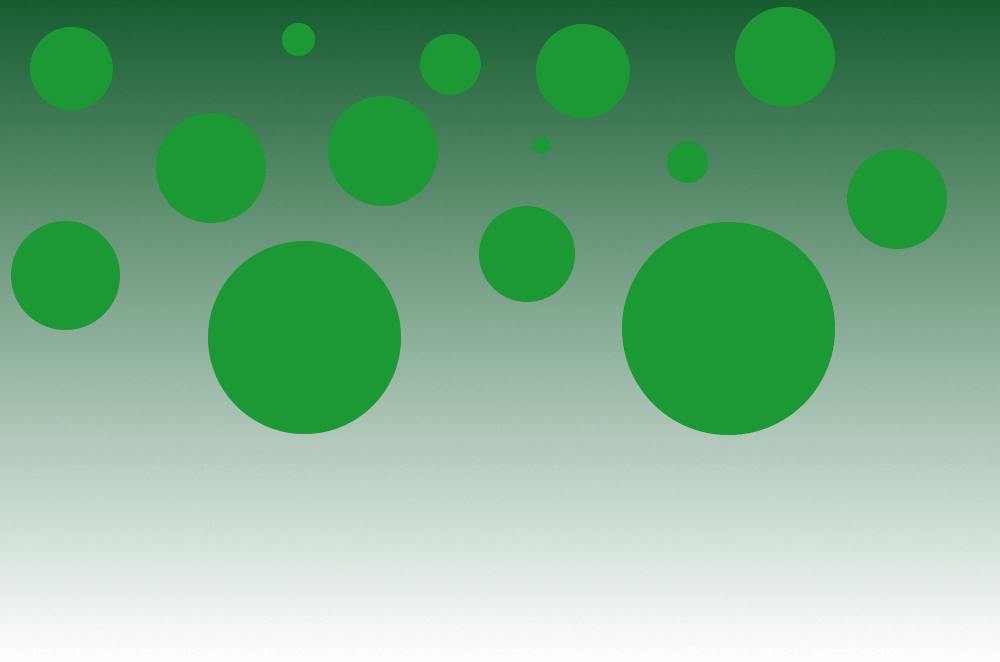
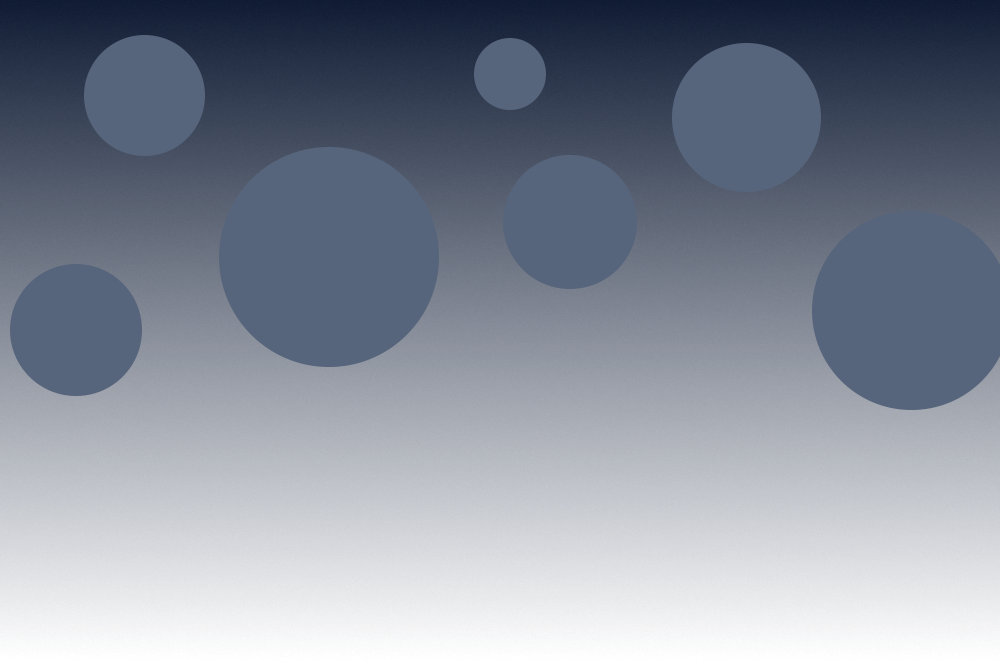
Introducing a blue asthetic.
Also, expansion on the gaming section.
Gonna continue tomorrow with Mario and my critiquing skills.

diff --git a/index.html b/index.html
@@ -65,7 +65,7 @@
 			</div>
 			<ul class="list-unstyled components mb-0">
 				<li class="active"><a href="/"><span class="fa fa-home mr-1"></span> Home</a></li>
-				<li><a href="/projects"><span class="fa fa-folder-open-o mr-1 notif"><small class="d-flex align-items-center justify-content-center">2</small></span> Projects</a></li>
+				<li><a href="/projects"><span class="fa fa-folder-open-o mr-1 notif"><small class="badge badge-pill badge-danger d-flex justify-content-center">2</small></span> Projects</a></li>
 				<li><a href="/blog"><span class="fa fa-pencil-square-o mr-1"></span> Blog</a></li>
 				<li><a href="/gamerev"><span class="fa fa-gamepad mr-1"></span> Game Reviews</a></li>
 				<li><a href="/social"><span class="fa fa-share-alt mr-1"></span> Social Links</a></li>
@@ -76,14 +76,15 @@
 		<!-- Page Content  -->
 		<div id="content" class="px-5 pt-4">
 			<h1 class="mb-1">Welcome to the NightScript Domain!</h1>
-			<p>This website was made to record various accomplishments I've done over the years. The content you may find here could range from video game reviews, blogs, projects or other things I may throw onto here. Maybe you'll find something interesting here?</p>
+			<p>This website was made to record various accomplishments I've done over the years. The content you may find here could range from video game reviews, blogs, projects or other things I may throw onto here. Maybe you'll find something interesting here? Who knows, but hey; at least appreciate the nice beautiful background of a mountain.</p>
 			<p>As for who I am; well, I'm kind of a laid-back yet lazy 16 year old programmer that is extremely enthusiastic in open source code and external contributions. I mainly program for the homebrew community, specifically the Nintendo DS Homebrew community. I can code in PHP, JavaScript, Python and some C++.<br>
 			Programming isn't the only thing I do (but it's my specialty). I also find interest in graphic design (using Photoshop CS6), writting, gaming and moderating. I am a moderator for Mario Making Mods (a discord server on modding the Super Mario Maker series) and the DS(i) Mode Hacking Discord Server. It's rare that you'll see me moderate though, because most of the userbase are rule-abidant users.</p>
 			<p>I do most of my communications on Discord (primarily on my personal Discord Server) but I'm also reachable elsewhere. Just take a look at my social page to know where to find me. I also take PayPal donations, if that's sort of your thing.</p>
 			<h3 class="mb-1">Gaming</h3>
-			<p>I game mainly on PC; It is the most versitile option in my opinion. However, I have a Nintendo 3DS XL, a Nintendo DS Lite with a broken SLOT-1 loader (so I never use it except for multiplayer DS Download Play games such as Mario Kart DS) and a Nintendo Wii which I never use but my step-brothers seem to adore. I <i>had</i> a Nintendo Switch but unfortunately, I do not have it anymore. As you have probably infered from what I wrote, I'm a Nintendo fan but I'm not exclusively Nintendo. Generally, I like series that are the more traditional type of games. I don't like the hallway style of modern 3D games or the "shoot everything" in the shooter games. I am, however, a fan of learning the games inside out to take advantage of any pro-level mechanic. It's like wavedashing in melee (despite me unable to do so in Project Plus), or momentum in the old Sonic games. Oh yeah, those series...</p>
-			<p>...are my favorite video game series of all time. In the old Sonic games, you are rewarded for memorization with speed. The goal is to get the fastest times in an act, and that concept is the only type of replayability I ever need. There is no need to hunt down collectable by searching every pipe or randomly crouching through hidden walls. For example, despite being hated for its constant return in modern Sonic games, Green Hill Zone is the best level to showcase that design philosophy what sonic is all about.<br>
-			As for Smash Bros, my favorite in the series is a Brawl mod called Project Plus. It replicates all of melee's mechanics, adds Knuckles, splits the pokemon trainer pokemon into three different slots, brings back melee characters and has 3 alternative versions for every stage. The character I play differentiates between each game. For example, I'm a K Rool, Meta Knight & Mario main in Smash Ultimate while simultaneously being a Wario, Mario & Ness main in Project Plus. What I love about Smash Bros is how it takes all these iconic characters (and the characters from the Fire Emblem series) and puts them against eachother in a Nintendo-esque way. Rather than having health bars and bordered walls, it takes a much more casual approach. Even though I think they took that approach too far in Brawl (hence why I don't play it), it's a much more inviting game than making your own characters.</p>
+			<p>I game mainly on PC; It is the most versitile option in my opinion. However, I have a Nintendo 3DS XL, a Nintendo DS Lite with a broken SLOT-1 loader (so I never use it except for multiplayer DS Download Play games such as Mario Kart DS) and a Nintendo Wii which I never use but my step-brothers seem to adore. I <i>had</i> a Nintendo Switch but unfortunately, I do not have it anymore. As you have probably infered from what I wrote, I'm a Nintendo fan but I'm not exclusively Nintendo. Generally, I like series that are the more traditional type of games. I don't like the hallway style of modern 3D games or the "shoot everything" design in the shooter games. I am, however, a fan of learning the games inside out to take advantage of any pro-level mechanic. It's like wavedashing in melee (despite me unable to do so in Project Plus), or momentum in the old Sonic games. Oh yeah, those series...</p>
+			<p>...are my favorite video game series of all time. My favorite entry in the Super Smash Bros. series is a Brawl mod called Project Plus. It replicates all of melee's mechanics, adds Knuckles, splits the pokemon trainer pokemon into three different slots, brings back melee characters and has 3 alternative versions for every stage. The character I play differentiates between each game. For example, I'm a K Rool, Meta Knight & Mario main in Smash Ultimate while simultaneously being a Wario, Mario & Ness main in Project Plus. What I love about Smash Bros is how it takes all these iconic characters (and the characters from the Fire Emblem series) and puts them against eachother in a Nintendo-esque way. Rather than having health bars and bordered walls, it takes a much more casual approach. Even though I think they took that approach too far in Brawl (hence why I don't play it), it's a much more inviting game than making your own characters.<br>
+				In the Classic 2D Sonic games, the more you memorize the level, the better you know the fastest way to go through an act. The goal is to get the fastest times in an act, and that concept is the only type of replayability I ever need. Green Hill Zone, despite being hated on for its constant return in Modern Sonic games, is a perfect example of this design philosophy. There is no need to hunt down collectable by searching every pipe or randomly crouching through hidden walls. Now, that might make me seem like I hate other 2D platformer series, but that couldn't be further from the truth.</p>
+			<p>Kirby is a series intended for easier players with design philosophies such as infinite flight and the relatively slow gameplay. Here's an example of the slow gameplay kirby has to offer: Rather than curling up into a super fast blue ball or timing your jump to hit their heads, kirby defeats his enemies by coming to a complete stand-still and sucking them up. The games compliment this new-player philosophy with collectables, and it makes sense for a series this laid back. For example, The Great Cave Offensive sub-game in Kirby Super Star Ultra (and the original respectively) does everything to complement the Kirby nature despite its name and Smash Bros stage representation being anything but. While not a requirement, there are 60 collectables scattered throughout your journey to travel out of the cave. With Kirby, this type of system works phenomunously as it opens the gates to all players. If you're a new person just getting into video games, it's quite straight forward and easy to play through.</p>
 		</div>
 
 		<script src="https://unpkg.com/@popperjs/core@2.2.3/dist/umd/popper.min.js"></script>

diff --git a/css/style.css b/css/style.css
@@ -1,5 +1,9 @@
 body {
 	color: #00DDDD;
+	background-image: url('https://i.imgur.com/GdnbuVj.jpg');
+	background-size: cover;
+	background-repeat: no-repeat;
+	background-position: center center;
 	width: 100%; }
 
 a {
@@ -31,13 +35,17 @@ button {
 #sidebar {
 	min-width: 300px;
 	max-width: 300px;
-	background: #16171A;
+	background: #00000F;
 	color: #fff;
 	-webkit-transition: all 0.3s;
 	-o-transition: all 0.3s;
 	transition: all 0.3s;
 	position: relative;
-	min-height: 100vh; }
+	min-height: 100vh;
+
+	-moz-box-shadow:    3px 0 5px 0 #000;
+	-webkit-box-shadow: 3px 0 5px 0 #000;
+	box-shadow:         3px 0 5px 0 #000; }
 	#sidebar.active {
 		margin-left: -300px; }
 		#sidebar.active .custom-menu {
@@ -70,19 +78,16 @@ button {
 					right: -5px;
 					width: 12px;
 					height: 12px;
-					content: '';
-					background: red;
-					border-radius: 50%;
 					font-family: "Poppins", Arial, sans-serif;
 					font-size: 8px; }
 			#sidebar ul li a:hover {
 				color: #fff;
-				background: #1C9934; }
+				background: #56657C; }
 		#sidebar ul li.active > a {
 			background: transparent;
 			color: #fff; }
 			#sidebar ul li.active > a:hover {
-				background: #1C9934; }
+				background: #56657C; }
 	@media (max-width: 991.98px) {
 		#sidebar {
 			margin-left: -300px;
@@ -107,12 +112,14 @@ button {
 				-o-transition: none;
 				transition: none; } }
 		#sidebar .custom-menu .btn.btn-primary {
-			background: #1C9934;
+			background: #56657C;
 			border-color: transparent;
 			position: relative;
 			color: #000;
 			width: 30px;
 			height: 30px; }
+			#sidebar .custom-menu .btn.btn-primary:hover {
+				background: #67768D}
 			#sidebar .custom-menu .btn.btn-primary:after, #sidebar .custom-menu .btn.btn-primary:before {
 				position: absolute;
 				top: 2px;
@@ -149,7 +156,6 @@ button {
 	.bg-wrap .user-logo h4 {
 		color: #fff;
 		font-family: 'Comfortaa', cursive;
-		font-weight: 50;
 		font-style: normal; }
 
 a[data-toggle="collapse"] {
@@ -169,14 +175,7 @@ a[data-toggle="collapse"] {
 		display: none; } }
 
 #content {
-	background-color: #202225;
+	background-color: rgba(0, 0, 15, 0.7);
 	-webkit-transition: all 0.3s;
 	-o-transition: all 0.3s;
 	transition: all 0.3s; }
-
-.btn.btn-primary {
-	background: #1C9934;
-	border-color: #1C9934; }
-	.btn.btn-primary:hover {
-		background: #2DAA45 !important;
-		border-color: #2DAA45 !important; }

diff --git a/projects/dsi_mod_guide.html b/projects/dsi_mod_guide.html
@@ -65,12 +65,12 @@
 					</div>
 				</div>
 				<ul class="list-unstyled components nomb">
-					<li class="active"><a href="/"><span class="fa fa-home mr-2"></span> Home</a></li>
-					<li><a href="/projects"><span class="fa fa-folder-open-o mr-2 notif"><small class="d-flex align-items-center justify-content-center">2</small></span> Projects</a></li>
-					<li><a href="/blog"><span class="fa fa-pencil-square-o mr-2"></span> Blog</a></li>
-					<li><a href="/gamerev"><span class="fa fa-gamepad mr-2"></span> Game Reviews</a></li>
-					<li><a href="/social"><span class="fa fa-share-alt mr-2"></span> Social Links</a></li>
-					<li><a href="https://paypal.me/maorninja"><span class="fa fa-paypal mr-2"></span> Donations</a></li>
+					<li class="active"><a href="/"><span class="fa fa-home mr-1"></span> Home</a></li>
+					<li><a href="/projects"><span class="fa fa-folder-open-o mr-1 notif"><small class="badge badge-pill badge-danger d-flex justify-content-center">2</small></span> Projects</a></li>
+					<li><a href="/blog"><span class="fa fa-pencil-square-o mr-1"></span> Blog</a></li>
+					<li><a href="/gamerev"><span class="fa fa-gamepad mr-1"></span> Game Reviews</a></li>
+					<li><a href="/social"><span class="fa fa-share-alt mr-1"></span> Social Links</a></li>
+					<li><a href="https://paypal.me/maorninja"><span class="fa fa-paypal mr-1"></span> Donations</a></li>
 				</ul>
 			</nav>
 
